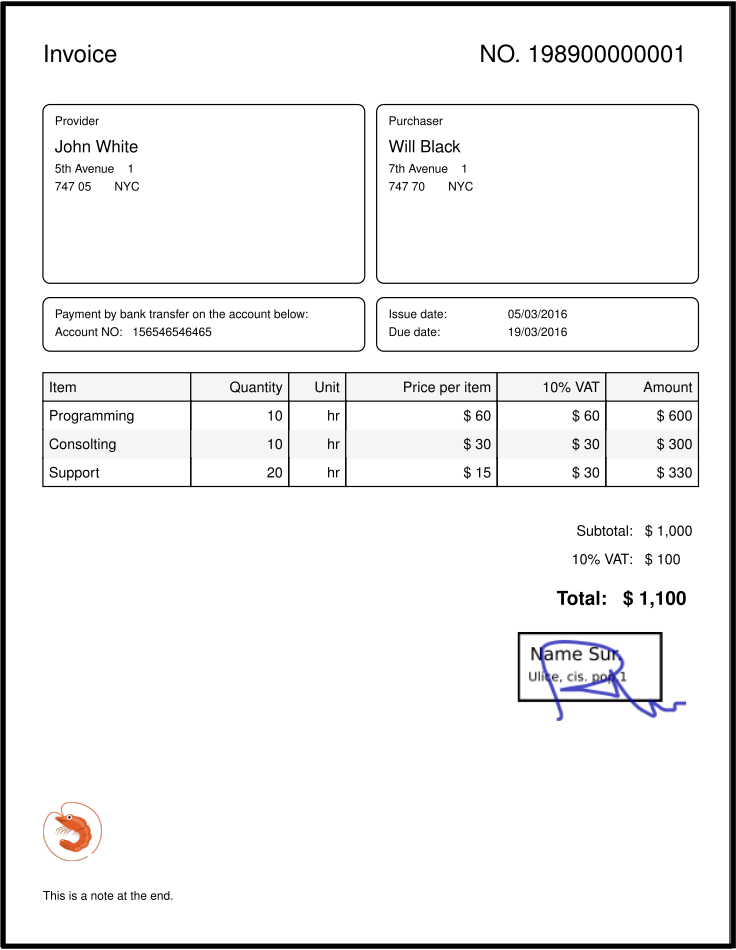
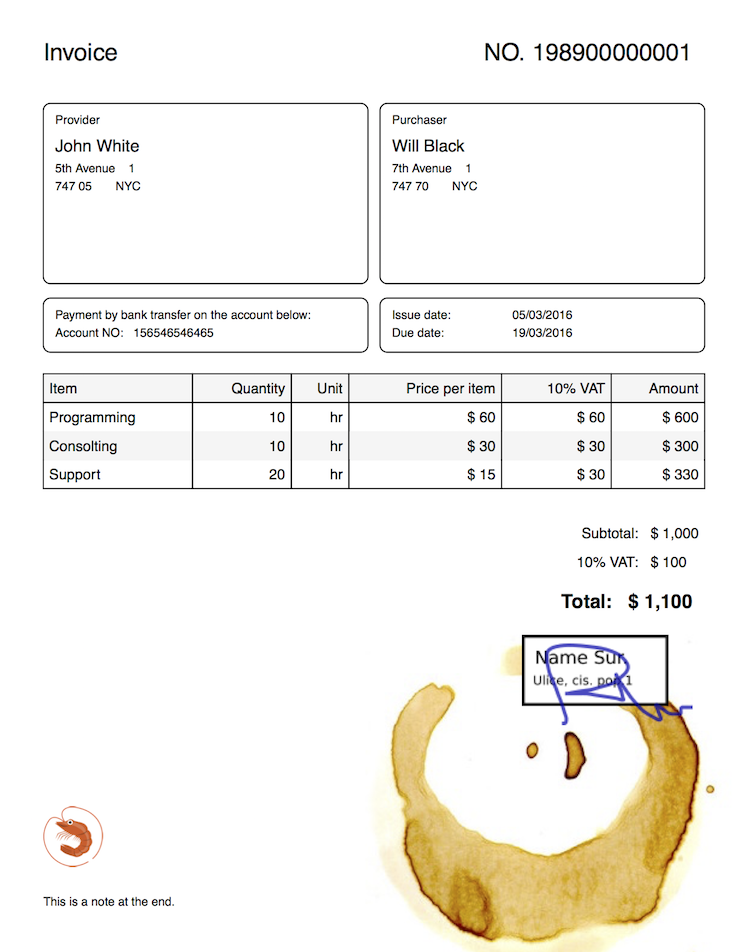
Allow an optional background image

Changed region(s): [[0.0, 0.0, 1.0, 1.0]]

diff --git a/lib/invoice_printer.rb b/lib/invoice_printer.rb
@@ -54,13 +54,14 @@ module InvoicePrinter
   # font - font file to use
   # stamp - stamp & signature (image)
   # logo - logotype (image)
-  def self.print(document:, file_name:, labels: {}, font: nil, stamp: nil, logo: nil)
+  def self.print(document:, file_name:, labels: {}, font: nil, stamp: nil, logo: nil, background: nil)
     PDFDocument.new(
       document: document,
       labels: labels,
       font: font,
       stamp: stamp,
       logo: logo,
+      background: background
     ).print(file_name)
   end
 
@@ -71,13 +72,14 @@ module InvoicePrinter
   # font - font file to use
   # stamp - stamp & signature (image)
   # logo - logotype (image)
-  def self.render(document:, labels: {}, font: nil, stamp: nil, logo: nil)
+  def self.render(document:, labels: {}, font: nil, stamp: nil, logo: nil, background: nil)
     PDFDocument.new(
       document: document,
       labels: labels,
       font: font,
       stamp: stamp,
-      logo: logo
+      logo: logo,
+      background: background
     ).render
   end
 end

diff --git a/test/background_test.rb b/test/background_test.rb
@@ -1,0 +1,23 @@
+require 'test_helper'
+
+class BackgroundTest < Minitest::Test
+  include InvoicePrinterHelpers
+
+  def setup
+    @invoice = InvoicePrinter::Document.new(default_document_params)
+  end
+
+  def test_background_render
+    assert_silent do
+      InvoicePrinter.render(document: @invoice, background: './examples/background.jpg')
+      InvoicePrinter.render(document: @invoice, background: nil)
+      InvoicePrinter.render(document: @invoice)
+    end
+  end
+
+  def test_missing_background_raises_an_exception
+    assert_raises(ArgumentError) do
+      InvoicePrinter.render(document: @invoice, background: 'missing.jpg')
+    end
+  end
+end

diff --git a/lib/invoice_printer/pdf_document.rb b/lib/invoice_printer/pdf_document.rb
@@ -55,10 +55,10 @@ module InvoicePrinter
       @@labels = DEFAULT_LABELS.merge(labels)
     end
 
-    def initialize(document: Document.new, labels: {}, font: nil, stamp: nil, logo: nil)
+    def initialize(document: Document.new, labels: {}, font: nil, stamp: nil, logo: nil, background: nil)
       @document = document
       @labels = PDFDocument.labels.merge(labels)
-      @pdf = Prawn::Document.new
+      @pdf = Prawn::Document.new(background: background)
       @font = font
       @stamp = stamp
       @logo = logo

diff --git a/examples/complex_invoice.rb b/examples/complex_invoice.rb
@@ -63,5 +63,6 @@ InvoicePrinter.print(
   labels: labels,
   stamp: 'stamp.png',
   logo: 'prawn.png',
-  file_name: 'complex_invoice.pdf'
+  file_name: 'complex_invoice.pdf',
+  background: 'background.jpg'
 )

diff --git a/README.md b/README.md
@@ -25,6 +25,7 @@ See more usecases in the `examples/` directory.
 - Configurable labels
 - Configurable font file
 - Logotype (as image scaled to fit 50px of height)
+- Background (as image)
 - Stamp & signature (as image)
 - Note
 - Well tested
@@ -165,9 +166,11 @@ InvoicePrinter.labels = {
 }
 ```
 
+### Font
+
 To support specific characters you might need to specify a TTF font to be used:
 
-```
+``` ruby
 InvoicePrinter.print(
   ...
   font: File.expand_path('../Overpass-Regular.ttf', __FILE__)
@@ -175,6 +178,17 @@ InvoicePrinter.print(
 ```
 
 We recommend you DejaVuSans and Overpass fonts.
+
+### Background
+
+To include a background image you might need to create the file according to the size and resolution to be used (see: [examples/background.jpg](https://github.com/strzibny/invoice_printer/blob/master/examples/background.jpg)):
+
+``` ruby
+InvoicePrinter.print(
+  ...
+  background: File.expand_path('../background.jpg', __FILE__)
+)
+```
 
 ## Copyright
 
